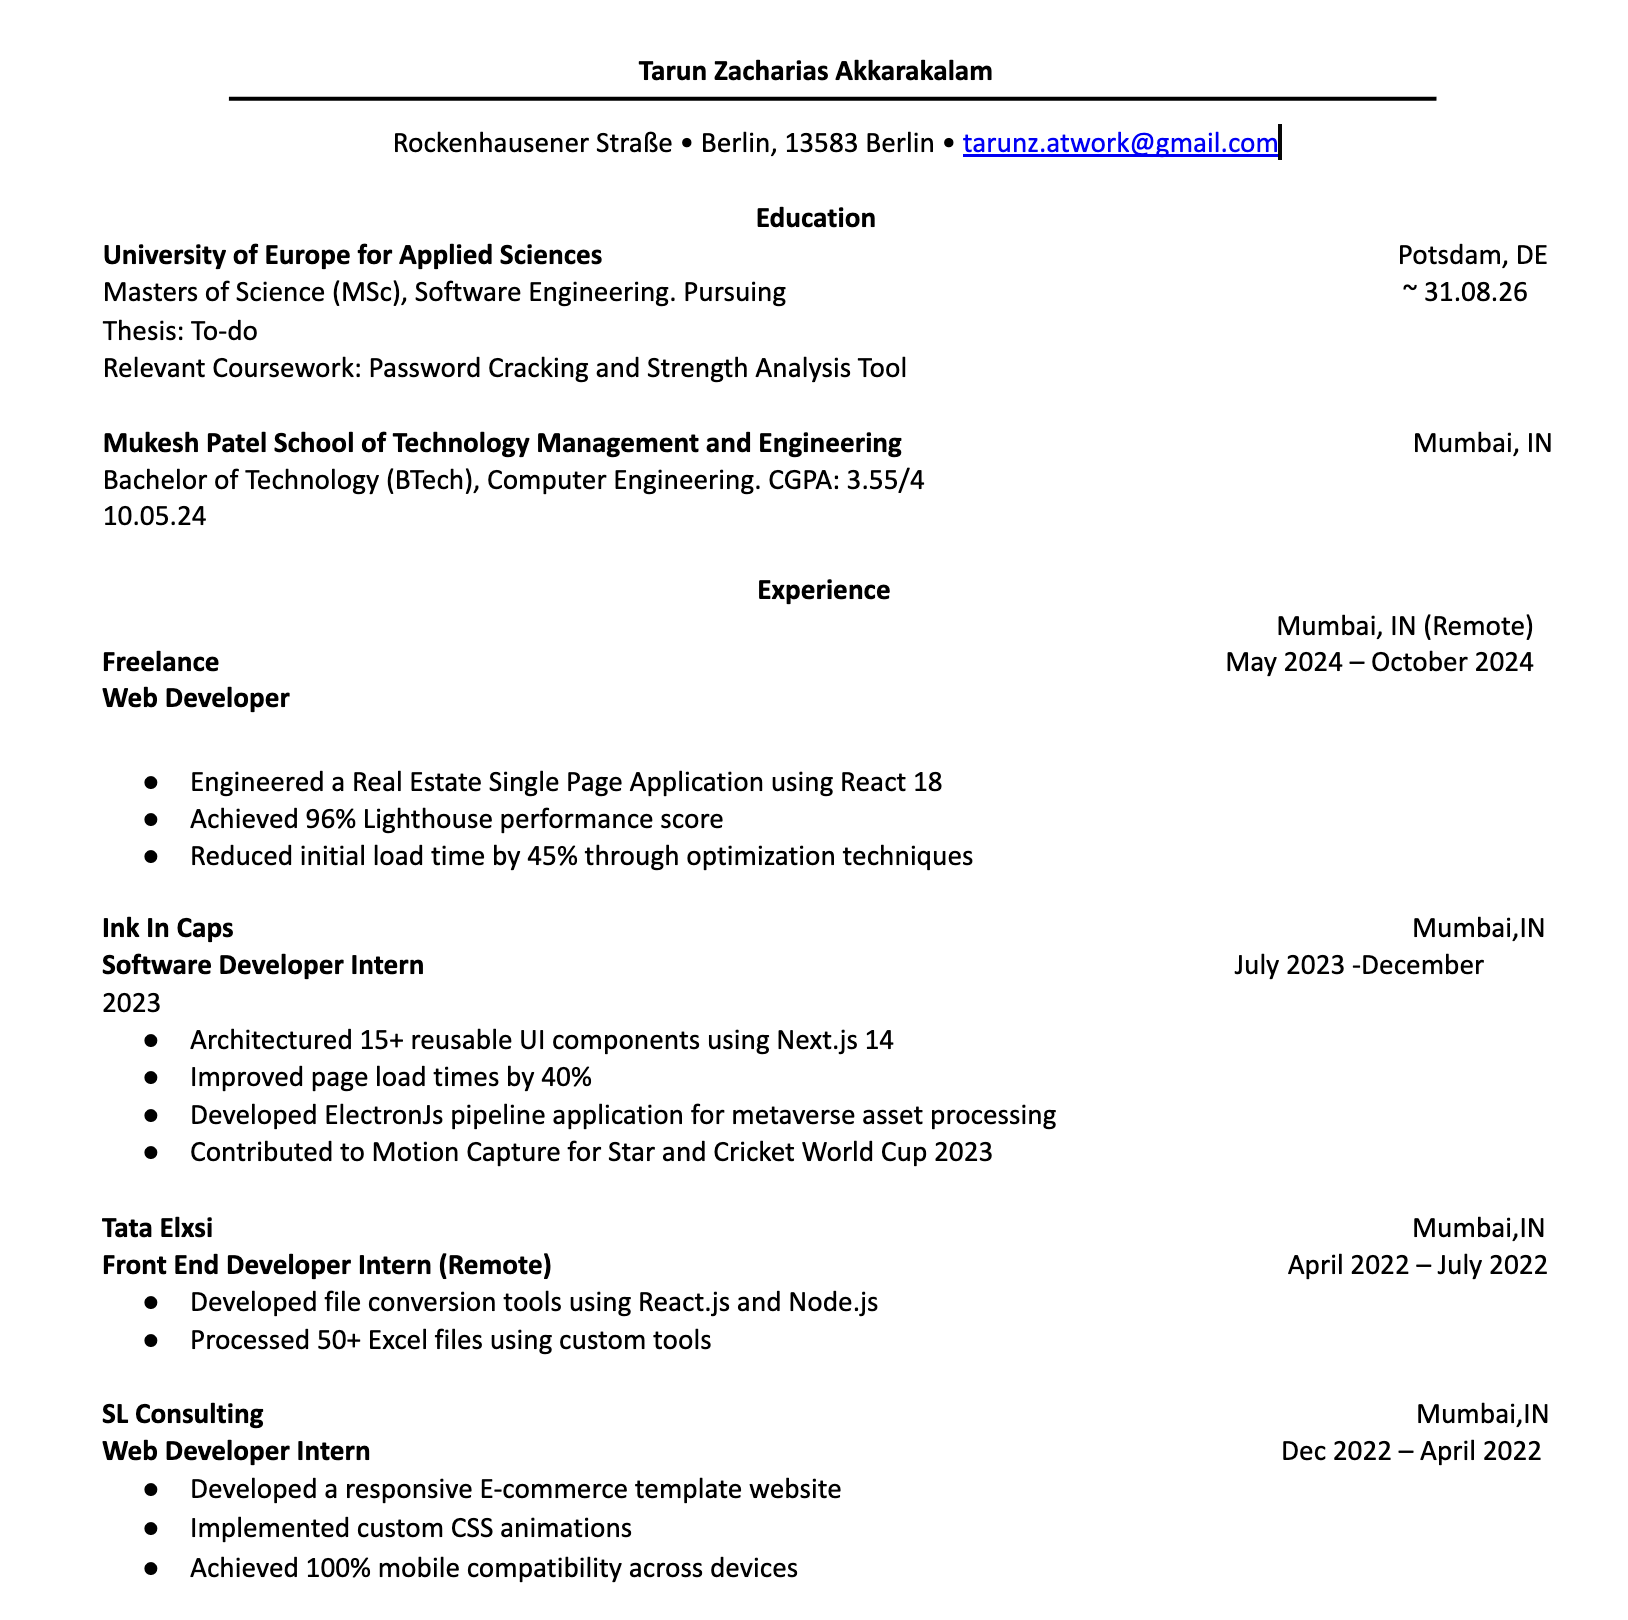
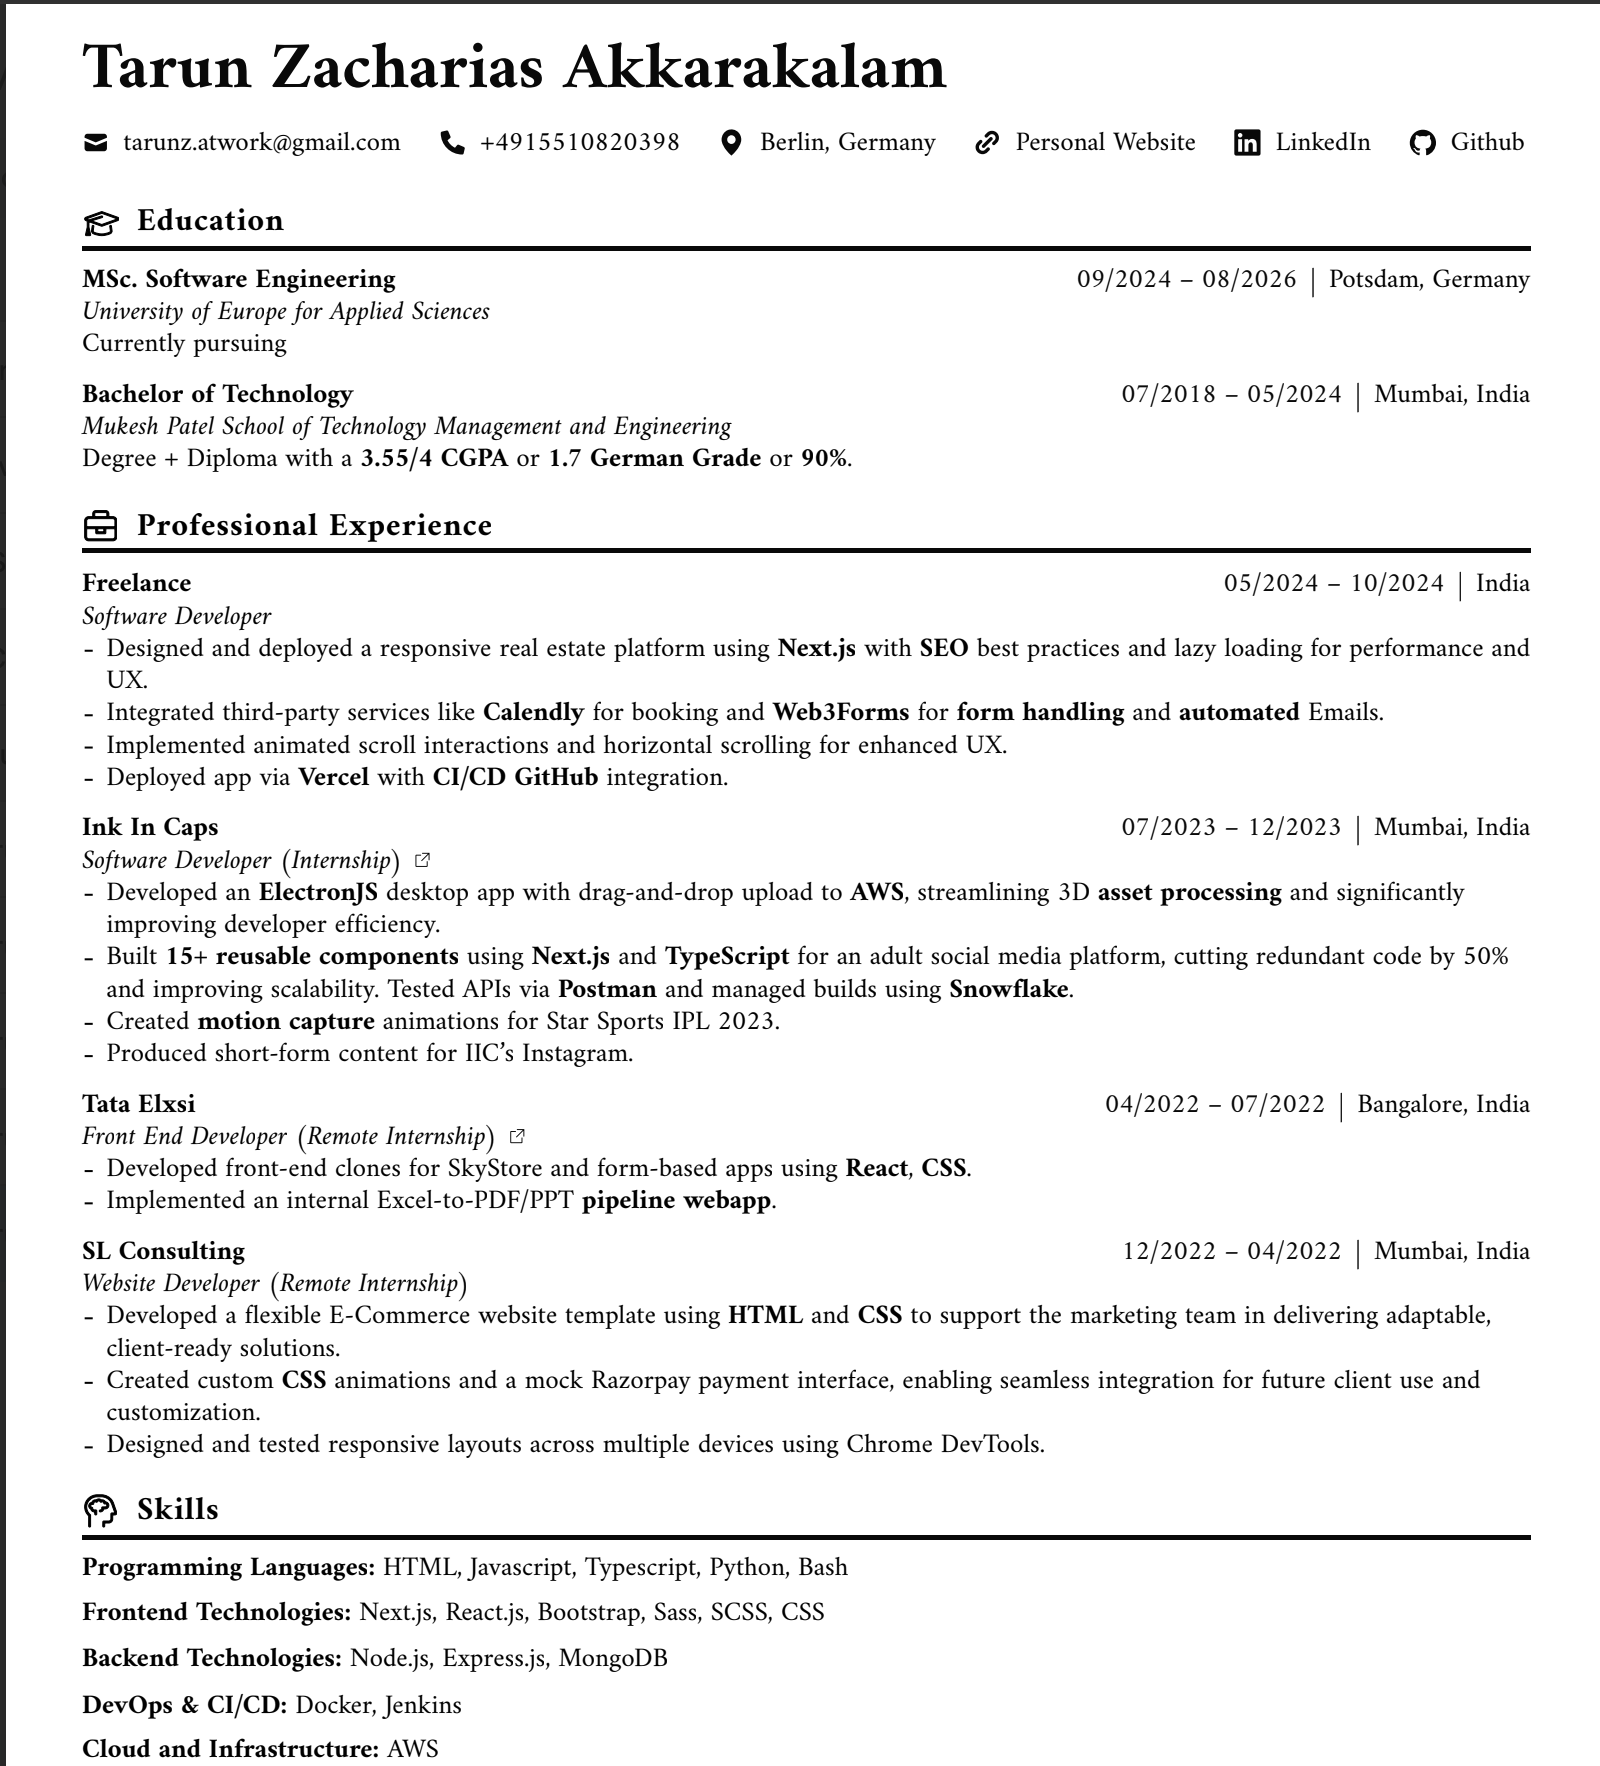
update:resume

diff --git a/index.html b/index.html
@@ -401,14 +401,14 @@
               <span class="browser__dot"></span>
             </div>
             <div class="browser__url-box">
-              <a href="https://docs.google.com/document/d/1z6hAeT3jvkcW8VYB2XdrYXY3apMWGENn9_C6h9z1Z60/edit?usp=sharing"
+              <a href="https://drive.google.com/file/d/1xh4KqxcM7bwz8T0ojdcdiEkaHXuzvqHQ/view?usp=sharing"
                 target="_blank">resume-DEU.com</a>
             </div>
           </div>
           <div class="browser__content">
-            <a href="https://docs.google.com/document/d/1z6hAeT3jvkcW8VYB2XdrYXY3apMWGENn9_C6h9z1Z60/edit?usp=sharing"
+            <a href="https://drive.google.com/file/d/1xh4KqxcM7bwz8T0ojdcdiEkaHXuzvqHQ/view?usp=sharing"
               target="_blank">
-              <img src="./img/resume-deu.png" alt="resume-ind" />
+              <img src="./img/resume-deu.png" alt="resume-deu" />
             </a>
           </div>
         </div>
